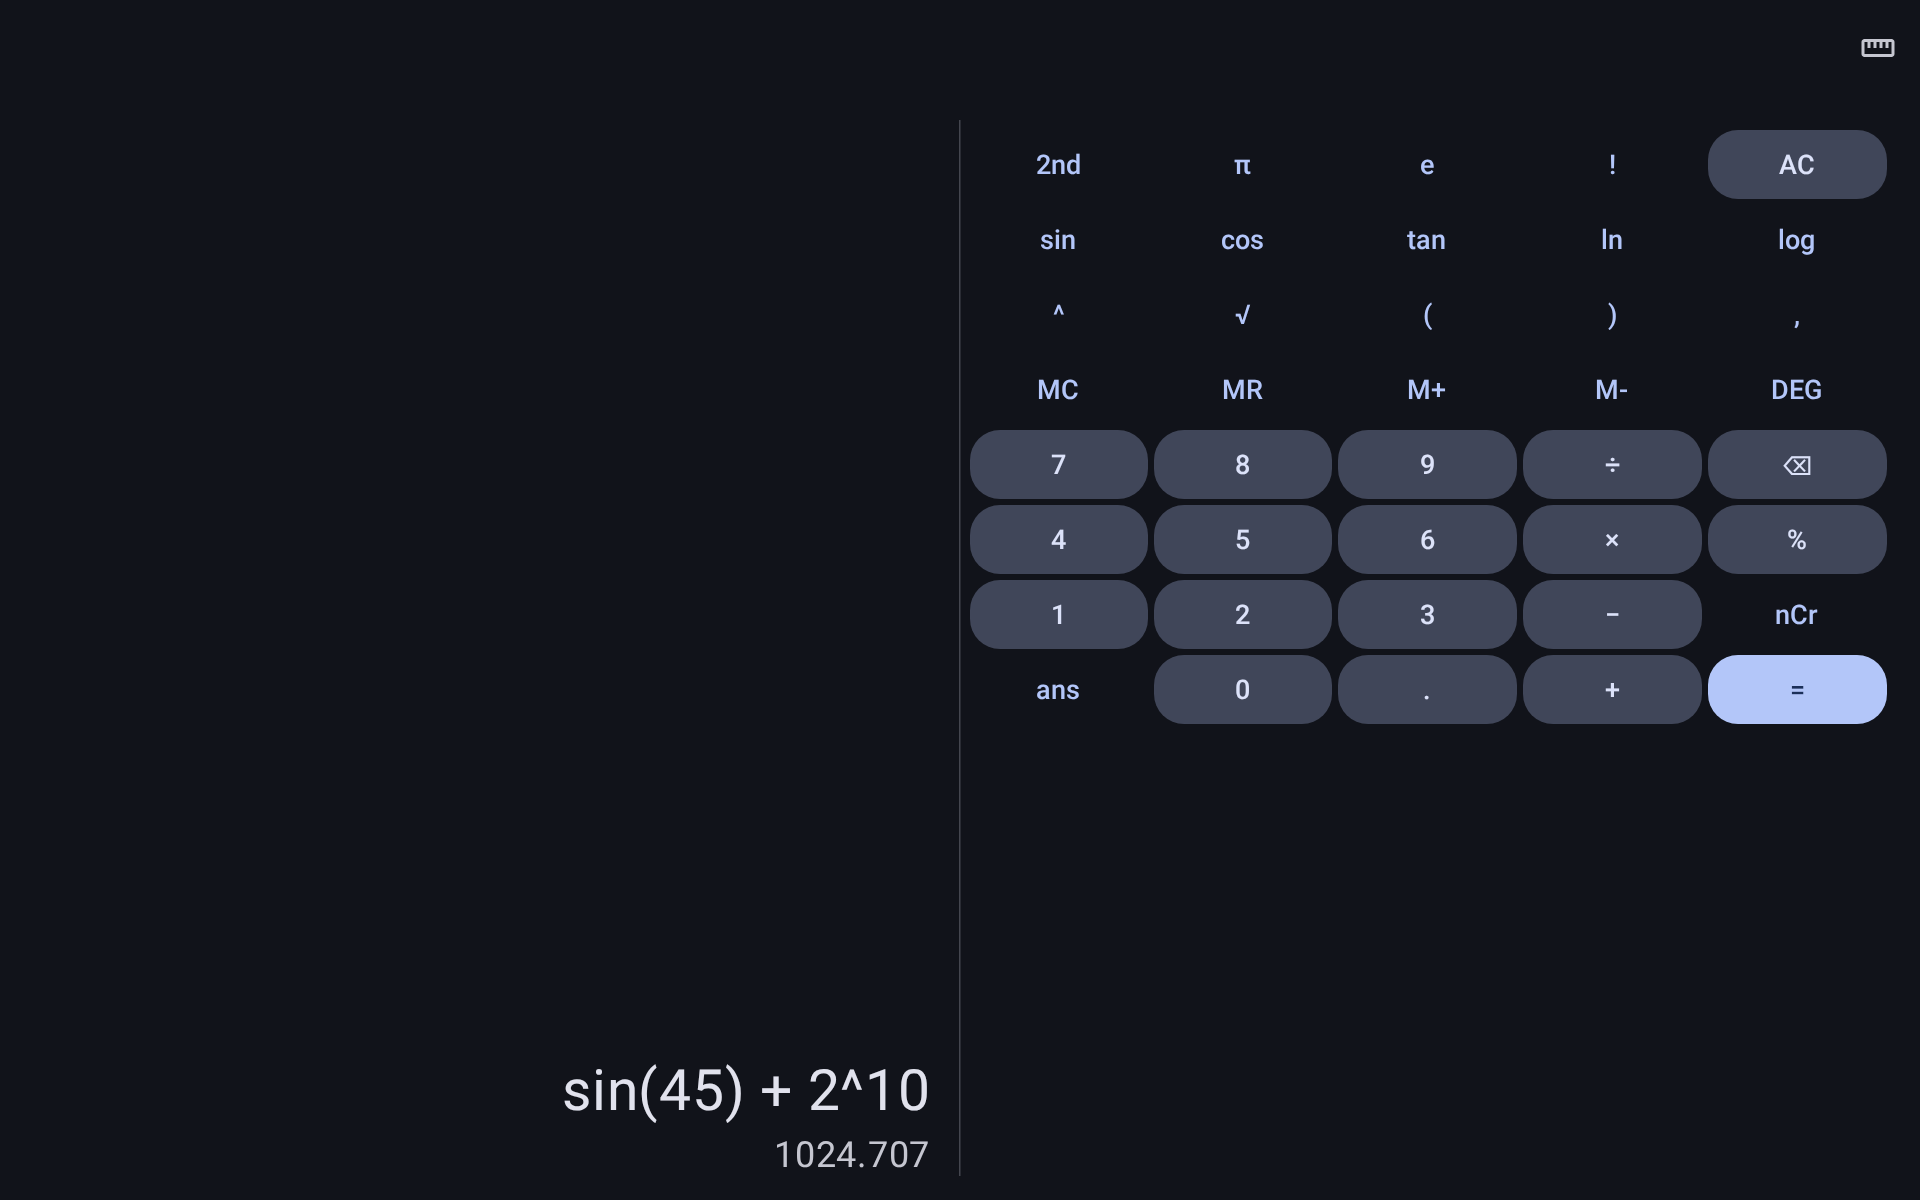
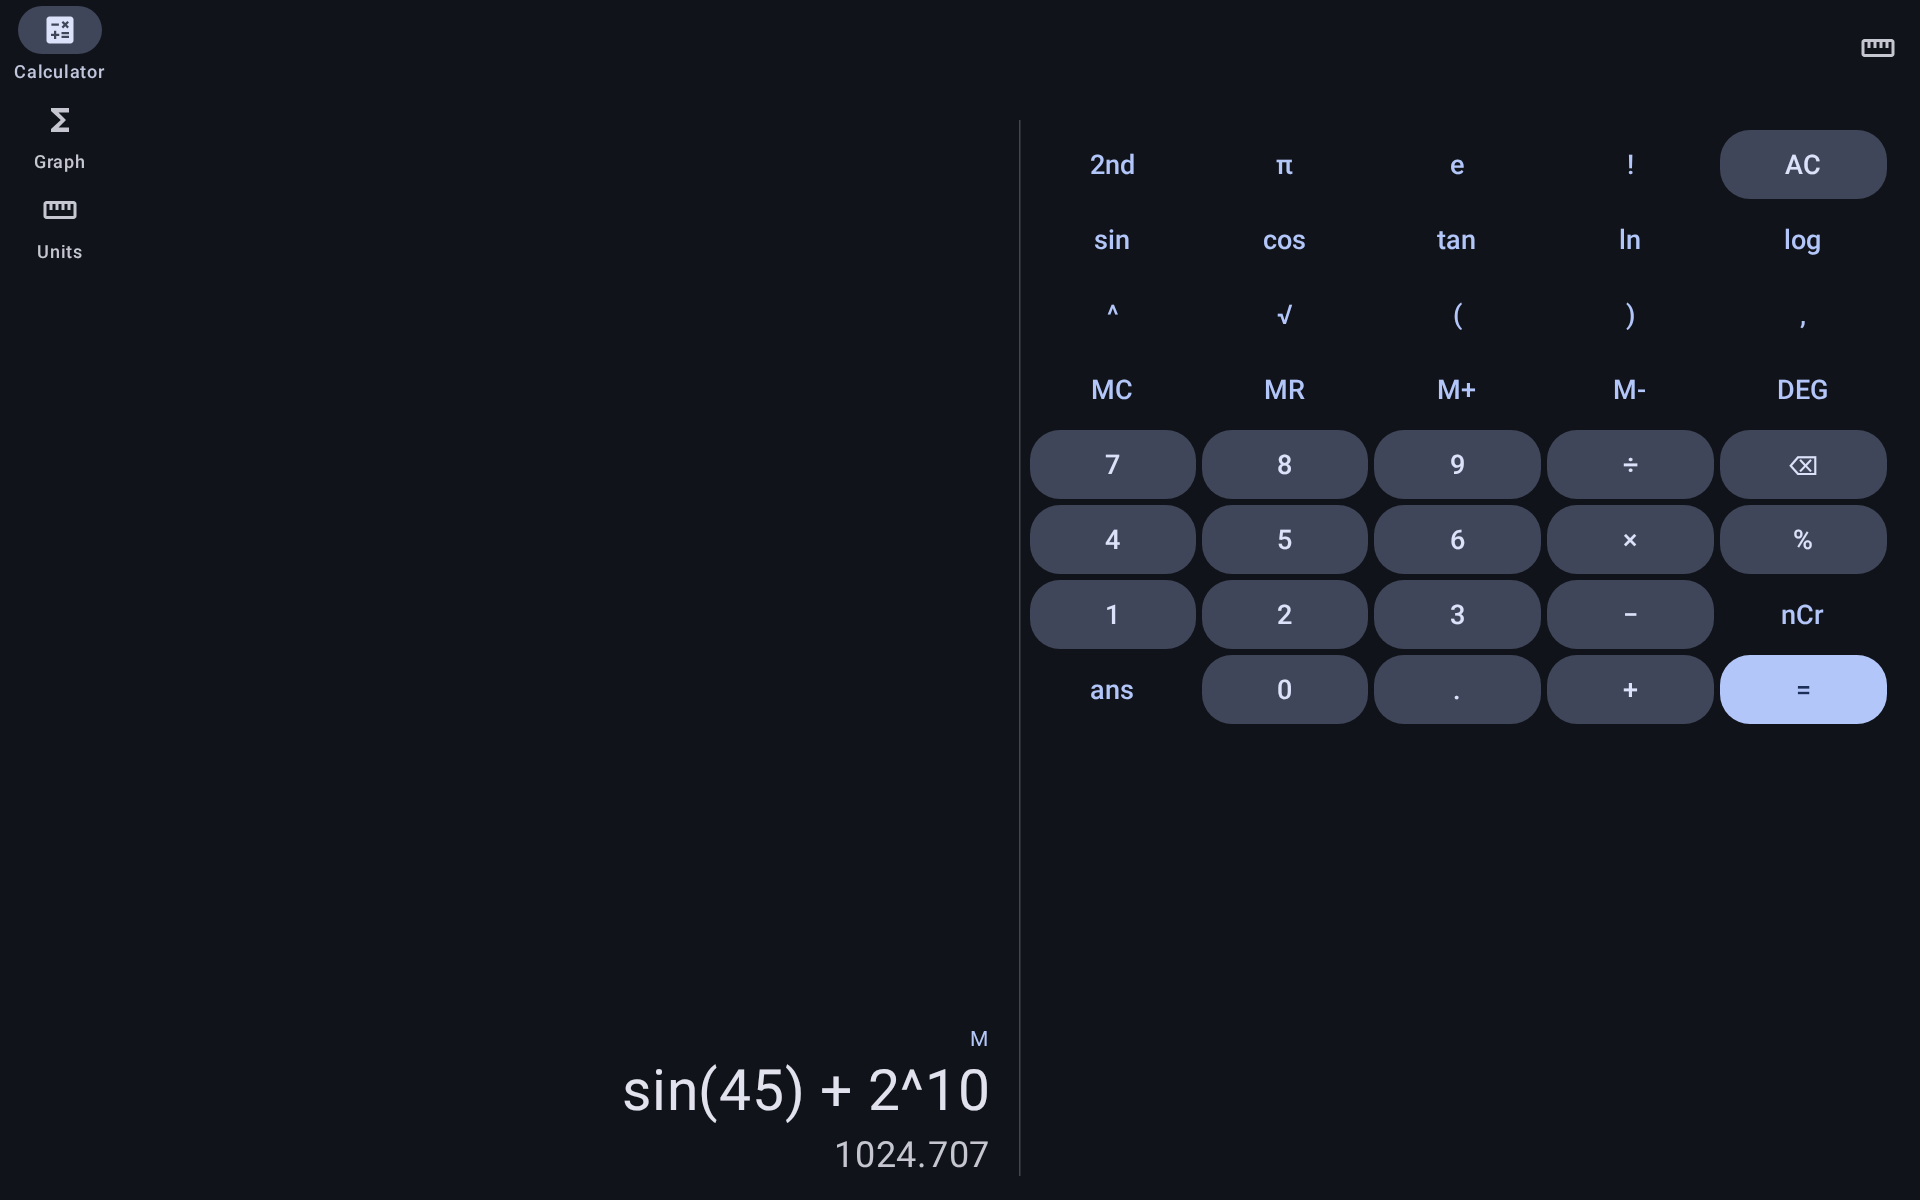
calculator: preview full navigation chrome in store screenshots

diff --git a/calculator/src/screenshotTest/kotlin/com/vayunmathur/calculator/ui/MetadataPreviews.kt b/calculator/src/screenshotTest/kotlin/com/vayunmathur/calculator/ui/MetadataPreviews.kt
@@ -1,8 +1,17 @@
 package com.vayunmathur.calculator.ui
 
+import androidx.compose.foundation.layout.Box
+import androidx.compose.foundation.layout.Row
+import androidx.compose.foundation.layout.fillMaxHeight
+import androidx.compose.foundation.layout.fillMaxSize
 import androidx.compose.runtime.Composable
+import androidx.compose.runtime.CompositionLocalProvider
+import androidx.compose.ui.Modifier
 import androidx.compose.ui.tooling.preview.Preview
+import androidx.navigationevent.compose.LocalNavigationEventDispatcherOwner
+import androidx.navigationevent.compose.rememberNavigationEventDispatcherOwner
 import com.android.tools.screenshot.PreviewTest
+import com.vayunmathur.calculator.Route
 import com.vayunmathur.calculator.util.AngleMode
 import com.vayunmathur.calculator.util.CalculatorActions
 import com.vayunmathur.calculator.util.CalculatorUiState
@@ -19,6 +28,19 @@ import com.vayunmathur.calculator.util.UnitConverterActions
 import com.vayunmathur.calculator.util.UnitConverterUiState
 import com.vayunmathur.calculator.util.UnitRegistry
 import com.vayunmathur.library.ui.DynamicTheme
+import com.vayunmathur.library.ui.IconCalculate
+import com.vayunmathur.library.ui.IconFunctions
+import com.vayunmathur.library.ui.IconRuler
+import com.vayunmathur.library.ui.NavigationRail
+import com.vayunmathur.library.ui.NavigationRailItem
+import com.vayunmathur.library.ui.Text
+import com.vayunmathur.library.ui.isCompactHeight
+import com.vayunmathur.library.ui.isExpandedWidth
+import com.vayunmathur.library.util.BottomBarItem
+import com.vayunmathur.library.util.BottomNavBar
+import com.vayunmathur.library.util.MainNavigation
+import com.vayunmathur.library.util.SiblingPage
+import com.vayunmathur.library.util.rememberNavBackStack
 
 /** Phone-shaped, roughly 1080x2340 at xxhdpi — comfortably above the F-Droid minimum. */
 private const val PHONE = "spec:width=411dp,height=891dp,dpi=420"
@@ -55,6 +77,11 @@ private const val EXPANDED = "spec:width=1280dp,height=800dp,dpi=240"
  *    JUnit tests and needs a real class to attach them to — top-level functions land in a
  *    synthetic `…Kt` facade and are silently skipped, which surfaces as "did not discover
  *    any tests".
+ *  - Previews render through [ChromePreview], not bare screens: the bottom bar and
+ *    navigation rail live in the app's `Navigation`, above the pages, so a bare
+ *    `CalculatorScreen` shot would miss the chrome users actually see. The chrome
+ *    here is the real component (`BottomNavBar`, `NavigationRail`) with the app's
+ *    real tab list — only the selected tab is literal.
  *
  * Rendering goes through the app's real [DynamicTheme] with `darkTheme = true`, matching
  * the `cmd uimode night yes` the old on-device generator used. Note that Material You
@@ -67,98 +94,178 @@ class MetadataPreviews {
     @Preview(name = "1-keypad", device = PHONE, group = "phone", showSystemUi = true)
     @Composable
     fun Preview1Keypad() {
-        DynamicTheme(darkTheme = true) {
-            CalculatorScreen(
-                state = CalculatorUiState(
-                    input = "sin(45) + 2^10",
-                    preview = "1024.707",
-                    memory = 12.5,
-                    angleMode = AngleMode.DEGREES,
-                ),
-                actions = CalculatorActions.Noop,
-            )
-        }
+        ChromePreview(Route.Calculator)
     }
 
     @PreviewTest
     @Preview(name = "2-graph", device = PHONE, group = "phone", showSystemUi = true)
     @Composable
     fun Preview2Graph() {
-        val colors = GraphTabColors
-        DynamicTheme(darkTheme = true) {
-            GraphScreen(
-                state = GraphUiState(
-                    functions = listOf(
-                        GraphFunction(id = 0, text = "sin(x)", color = colors[0]),
-                        GraphFunction(id = 1, text = "x^2/8 - 2", color = colors[1]),
-                        GraphFunction(id = 2, text = "cos(x)/2", color = colors[2], enabled = false),
-                    ),
-                    markers = listOf(
-                        GraphMarker(GraphPoint(0.0, 0.0), FeatureKind.INTERSECTION, listOf(0L, 1L)),
-                        GraphMarker(GraphPoint(-1.571, -1.0), FeatureKind.MINIMUM, listOf(0L)),
-                    ),
-                    angleMode = AngleMode.RADIANS,
-                    viewport = GraphViewport(centerX = 0.0, centerY = 0.0, scale = 42.0),
-                ),
-                actions = GraphActions.Noop,
-            )
-        }
+        ChromePreview(Route.Graph)
     }
 
     @PreviewTest
     @Preview(name = "3-history", device = PHONE, group = "phone", showSystemUi = true)
     @Composable
     fun Preview3History() {
-        DynamicTheme(darkTheme = true) {
-            CalculatorScreen(
-                state = CalculatorUiState(
-                    input = "12!",
-                    preview = "479001600",
-                    angleMode = AngleMode.RADIANS,
-                    history = listOf(
-                        HistoryEntry("sin(45) + 2^10", "1024.707"),
-                        HistoryEntry("nCr(52,5)", "2598960"),
-                        HistoryEntry("|-17.5| * pi", "54.978"),
-                        HistoryEntry("log(2,4096)", "12"),
-                    ),
-                ),
-                actions = CalculatorActions.Noop,
-            )
-        }
+        ChromePreview(Route.Calculator, showHistory = true)
     }
 
     @PreviewTest
     @Preview(name = "4-units", device = PHONE, group = "phone", showSystemUi = true)
     @Composable
     fun Preview4Units() {
-        DynamicTheme(darkTheme = true) {
-            UnitConverterScreen(
-                state = UnitConverterUiState(
-                    categories = UnitRegistry.categories,
-                    selectedCategoryIndex = 3, // Temperature
-                    fromToken = "degC",
-                    toToken = "degF",
-                    inputText = "100",
-                    outputText = "212",
-                ),
-                actions = UnitConverterActions.Noop,
-            )
-        }
+        ChromePreview(Route.Units)
     }
 
     @PreviewTest
     @Preview(name = "5-keypad-expanded", device = EXPANDED, group = "large-tablet", showSystemUi = true)
     @Composable
     fun Preview5KeypadExpanded() {
-        DynamicTheme(darkTheme = true) {
-            CalculatorScreen(
-                state = CalculatorUiState(
-                    input = "sin(45) + 2^10",
-                    preview = "1024.707",
-                    angleMode = AngleMode.DEGREES,
-                ),
-                actions = CalculatorActions.Noop,
-            )
+        ChromePreview(Route.Calculator)
+    }
+}
+
+/**
+ * One tab's screen content, factored out of the previews so [ChromePreview] can
+ * host every destination behind the real navigation chrome.
+ */
+@Composable
+private fun KeypadContent() {
+    CalculatorScreen(
+        state = CalculatorUiState(
+            input = "sin(45) + 2^10",
+            preview = "1024.707",
+            memory = 12.5,
+            angleMode = AngleMode.DEGREES,
+        ),
+        actions = CalculatorActions.Noop,
+    )
+}
+
+@Composable
+private fun HistoryContent() {
+    CalculatorScreen(
+        state = CalculatorUiState(
+            input = "12!",
+            preview = "479001600",
+            angleMode = AngleMode.RADIANS,
+            history = listOf(
+                HistoryEntry("sin(45) + 2^10", "1024.707"),
+                HistoryEntry("nCr(52,5)", "2598960"),
+                HistoryEntry("|-17.5| * pi", "54.978"),
+                HistoryEntry("log(2,4096)", "12"),
+            ),
+        ),
+        actions = CalculatorActions.Noop,
+    )
+}
+
+@Composable
+private fun GraphContent() {
+    val colors = GraphTabColors
+    GraphScreen(
+        state = GraphUiState(
+            functions = listOf(
+                GraphFunction(id = 0, text = "sin(x)", color = colors[0]),
+                GraphFunction(id = 1, text = "x^2/8 - 2", color = colors[1]),
+                GraphFunction(id = 2, text = "cos(x)/2", color = colors[2], enabled = false),
+            ),
+            markers = listOf(
+                GraphMarker(GraphPoint(0.0, 0.0), FeatureKind.INTERSECTION, listOf(0L, 1L)),
+                GraphMarker(GraphPoint(-1.571, -1.0), FeatureKind.MINIMUM, listOf(0L)),
+            ),
+            angleMode = AngleMode.RADIANS,
+            viewport = GraphViewport(centerX = 0.0, centerY = 0.0, scale = 42.0),
+        ),
+        actions = GraphActions.Noop,
+    )
+}
+
+@Composable
+private fun UnitsContent() {
+    UnitConverterScreen(
+        state = UnitConverterUiState(
+            categories = UnitRegistry.categories,
+            selectedCategoryIndex = 3, // Temperature
+            fromToken = "degC",
+            toToken = "degF",
+            inputText = "100",
+            outputText = "212",
+        ),
+        actions = UnitConverterActions.Noop,
+    )
+}
+
+/**
+ * The app's real navigation chrome around preview screen content: the same tab
+ * list, the same rail-vs-bottom-bar branch, the same [MainNavigation] host as
+ * `Navigation` in MainActivity — with a literal back stack standing in for the
+ * selected tab, since previews have no ViewModel to drive one.
+ *
+ * [showHistory] selects the history variant of the keypad tab (Preview3); the
+ * selected tab always matches the shown screen.
+ */
+@Composable
+private fun ChromePreview(route: Route, showHistory: Boolean = false) {
+    DynamicTheme(darkTheme = true) {
+        // NavDisplay requires a NavigationEventDispatcherOwner, which an Activity
+        // normally provides — Layoutlib has no Activity, so previews supply a
+        // root dispatcher explicitly (null parent).
+        CompositionLocalProvider(
+            LocalNavigationEventDispatcherOwner provides rememberNavigationEventDispatcherOwner(
+                parent = null,
+            ),
+        ) {
+            ChromePreviewContent(route, showHistory)
+        }
+    }
+}
+
+@Composable
+private fun ChromePreviewContent(route: Route, showHistory: Boolean = false) {
+    val backStack = rememberNavBackStack(route)
+    val current = backStack.last()
+    val tabs = listOf(
+        BottomBarItem("Calculator", Route.Calculator) { IconCalculate() },
+        BottomBarItem("Graph", Route.Graph) { IconFunctions() },
+        BottomBarItem("Units", Route.Units) { IconRuler() },
+    )
+    val entries: @Composable () -> Unit = {
+        when (current) {
+            Route.Calculator -> if (showHistory) HistoryContent() else KeypadContent()
+            Route.Graph -> GraphContent()
+            Route.Units -> UnitsContent()
+        }
+    }
+    if (isExpandedWidth() || isCompactHeight()) {
+        Row(Modifier.fillMaxSize()) {
+            NavigationRail(Modifier.fillMaxHeight()) {
+                tabs.forEach { tab ->
+                    NavigationRailItem(
+                        selected = current == tab.route,
+                        onClick = {},
+                        icon = tab.icon,
+                        label = { Text(tab.name) },
+                    )
+                }
+            }
+            Box(Modifier.weight(1f).fillMaxHeight()) {
+                MainNavigation(backStack) {
+                    entry<Route.Calculator>(metadata = SiblingPage()) { entries() }
+                    entry<Route.Graph>(metadata = SiblingPage()) { entries() }
+                    entry<Route.Units>(metadata = SiblingPage()) { entries() }
+                }
+            }
+        }
+    } else {
+        MainNavigation(
+            backStack,
+            bottomBar = { BottomNavBar(backStack, tabs, current) },
+        ) {
+            entry<Route.Calculator>(metadata = SiblingPage()) { entries() }
+            entry<Route.Graph>(metadata = SiblingPage()) { entries() }
+            entry<Route.Units>(metadata = SiblingPage()) { entries() }
         }
     }
 }
